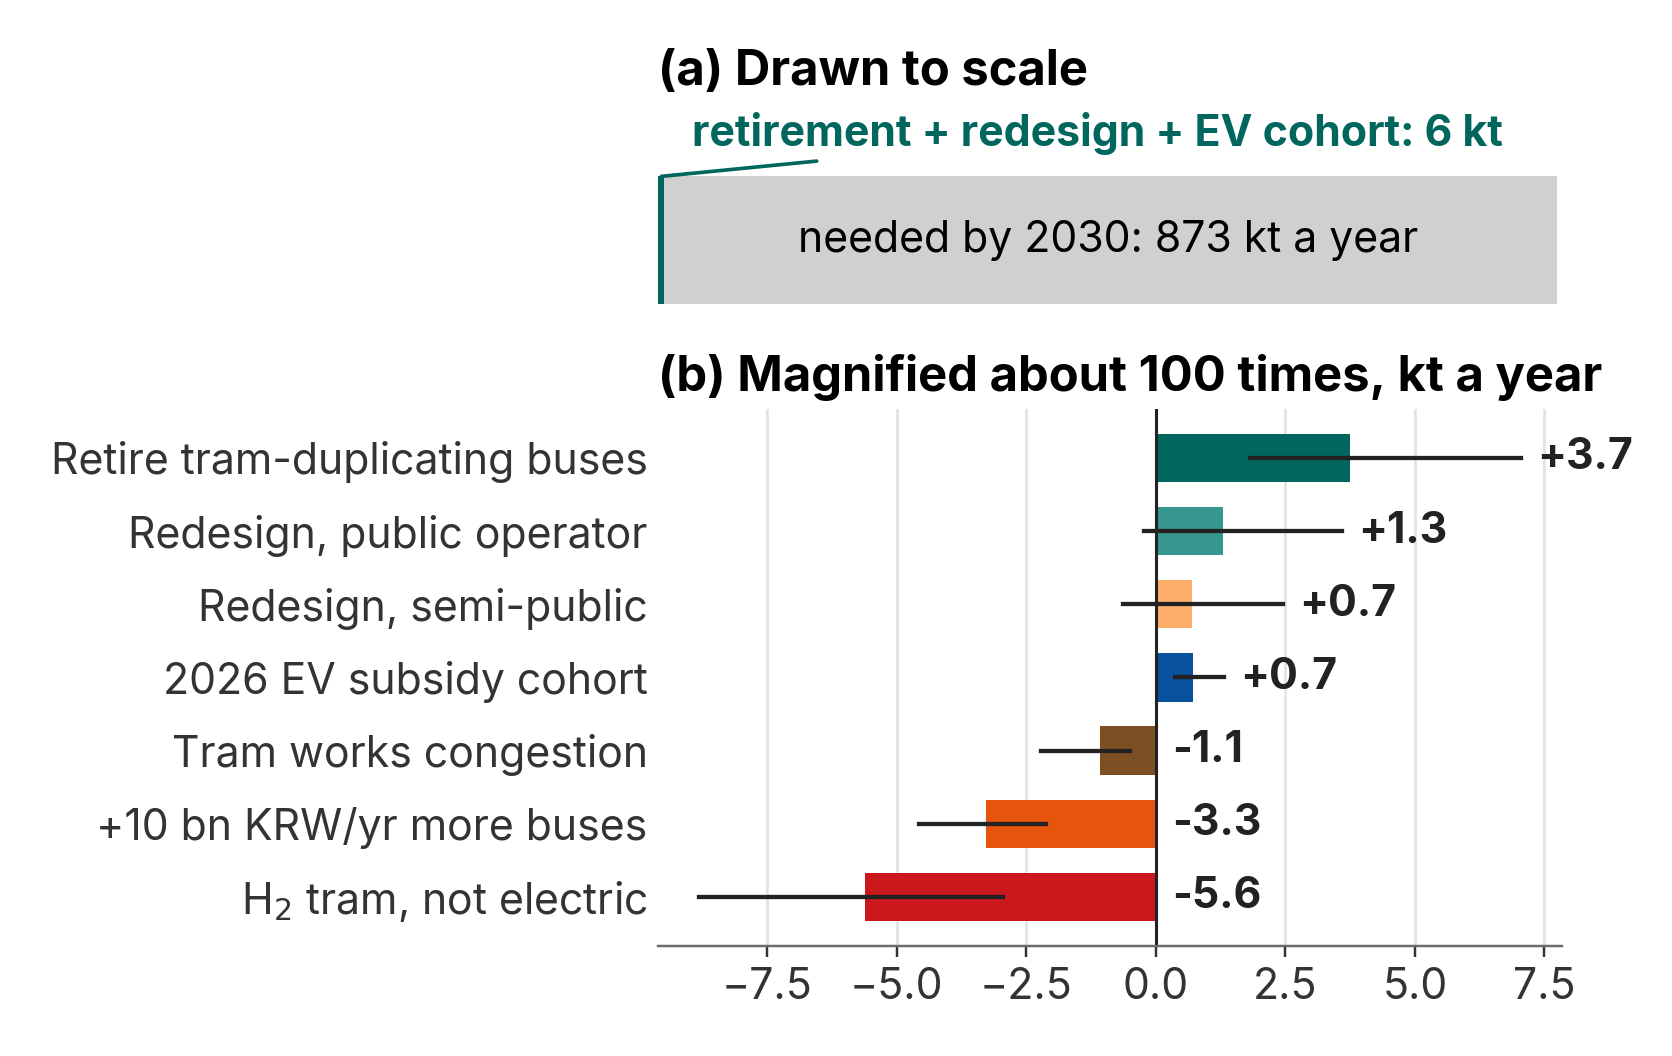
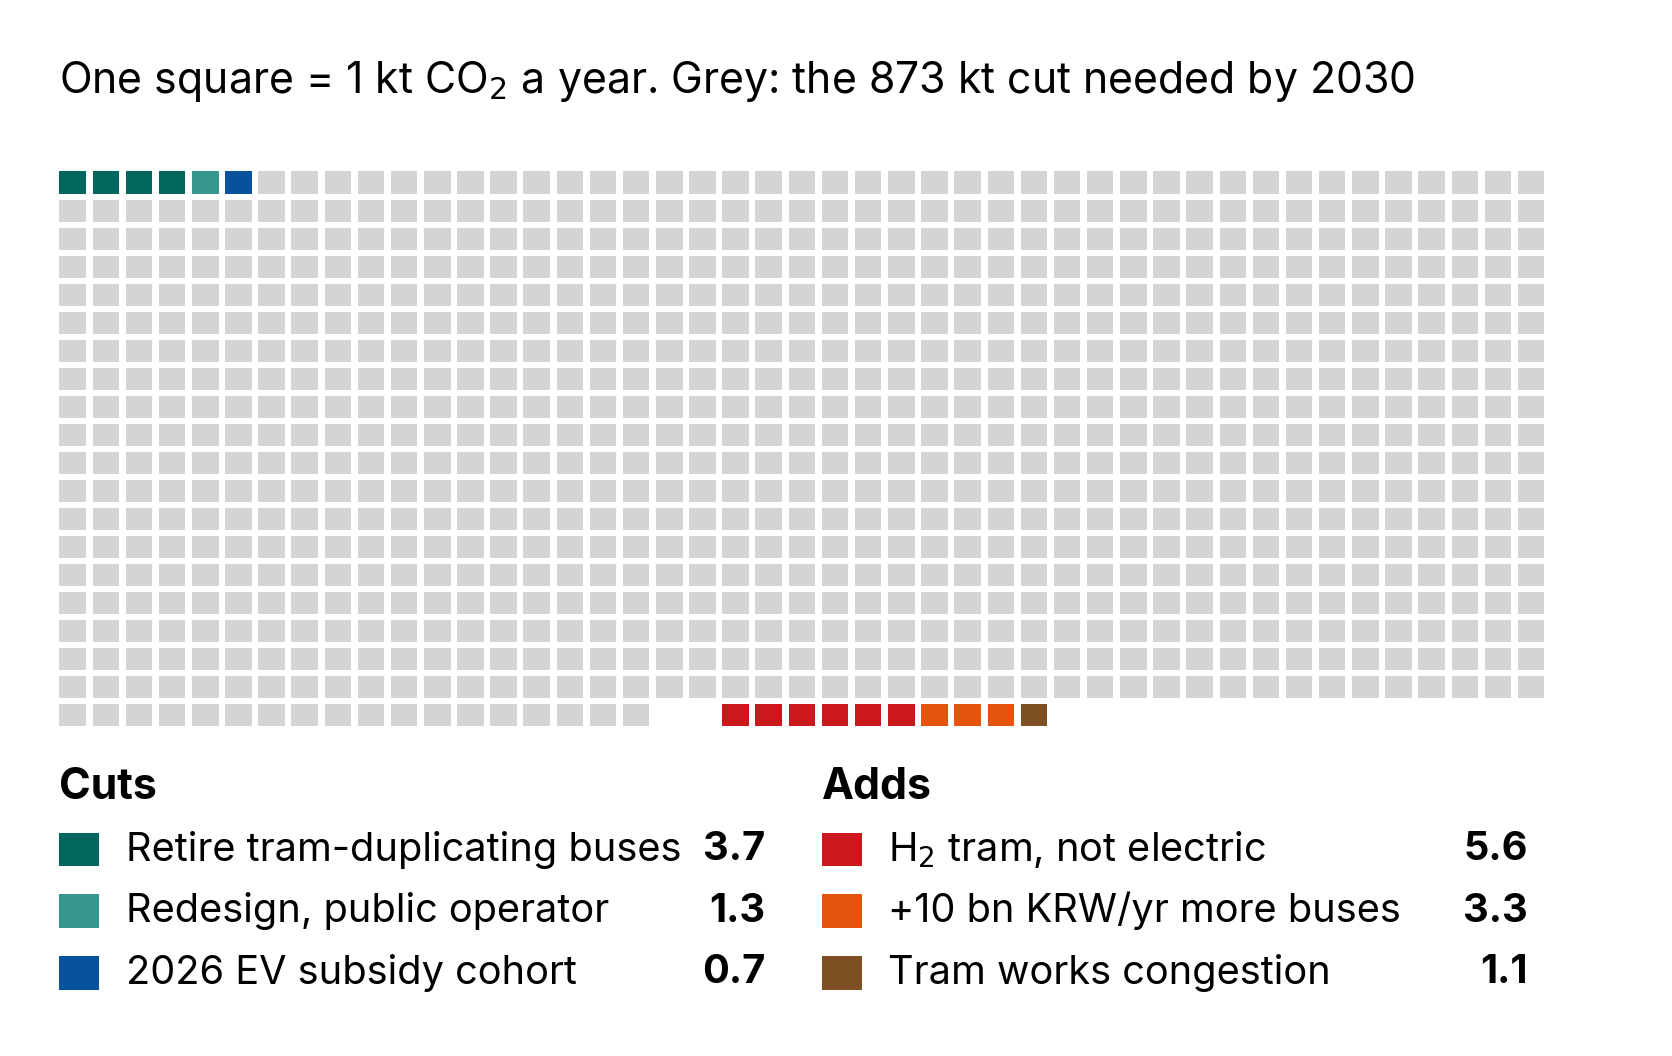
Scale figure as a waffle chart: one square per kt

diff --git a/figures.py b/figures.py
@@ -430,34 +430,48 @@ def fig_a2(mc):
 
 
 def fig_h2(mc):
-    """Scale: the needed cut drawn to scale (a), then the policies magnified (b)."""
+    """Scale as a waffle: one square = 1 kt CO2 a year. Grey squares are the cut
+    Daejeon needs by 2030; coloured squares are what each policy cuts or adds."""
     d = pd.read_csv("data_context.csv").set_index("item")["value"]
     need = d["transport_ghg_2018"] - d["transport_ghg_2030_target"]
-    cuts = (mc["gap_pct_T2_retire"] + mc["gap_pct_R_D"] + mc["gap_pct_EV_2026_cohort"]).median() * need / 100
-    rows = [("Retire tram-duplicating buses", "gap_pct_T2_retire", K["T2"]),
-            ("Redesign, public operator", "gap_pct_R_D", K["R_D"]),
-            ("Redesign, semi-public", "gap_pct_R_C", K["R_C"]),
-            ("2026 EV subsidy cohort", "gap_pct_EV_2026_cohort", K["A_all"]),
-            ("Tram works congestion", "gap_pct_W", K["W"]),
-            ("+10 bn KRW/yr more buses", "gap_pct_C_10bn", K["C"]),
-            ("H$_2$ tram, not electric", "gap_pct_H2_vs_electric_tram", K["H2_mix"])]
-    mk = mc.copy()
-    for _, col, _c in rows:
-        mk[col] = mc[col] * need / 100
-    fig, (ax1, ax2) = plt.subplots(2, 1, figsize=SLOT, gridspec_kw={"height_ratios": [1.0, 4.2]})
-    ax1.barh(0, need, color="#d0d0d0", height=0.6)
-    ax1.barh(0, cuts, color=K["T2"], height=0.6)
-    ax1.text(need / 2, 0, f"needed by 2030: {need:,.0f} kt a year", ha="center", va="center", fontsize=FS - 1)
-    ax1.annotate(f"retirement + redesign + EV cohort: {cuts:.0f} kt", (cuts / 2, 0.3), xytext=(10, 7), textcoords="offset points",
-                 fontsize=FS - 1, fontweight="bold", color=K["T2"], ha="left", va="bottom",
-                 arrowprops=dict(arrowstyle="-", color=K["T2"], lw=1.2, shrinkA=0, shrinkB=0))
-    ax1.set_title("(a) Drawn to scale", pad=30)
-    ax1.set_xlim(0, need * 1.005)
-    ax1.set_ylim(-0.3, 0.3)
-    ax1.axis("off")
-    _hbars(ax2, rows, mk, fmt=lambda v: f"{v:+.1f}")
-    ax2.axvline(0, color="#222222", lw=1)
-    ax2.set_title("(b) Magnified about 100 times, kt a year")
+    kt = lambda col: abs(mc[col].median()) * need / 100
+    cuts = [("Retire tram-duplicating buses", kt("gap_pct_T2_retire"), K["T2"]),
+            ("Redesign, public operator", kt("gap_pct_R_D"), K["R_D"]),
+            ("2026 EV subsidy cohort", kt("gap_pct_EV_2026_cohort"), K["A_all"])]
+    adds = [("H$_2$ tram, not electric", kt("gap_pct_H2_vs_electric_tram"), K["H2_mix"]),
+            ("+10 bn KRW/yr more buses", kt("gap_pct_C_10bn"), K["C"]),
+            ("Tram works congestion", kt("gap_pct_W"), K["W"])]
+    n, cols = int(round(need)), 45
+    colours = []
+    for _, v, c in cuts:
+        colours += [c] * max(1, int(round(v)))
+    colours += ["#d4d4d4"] * (n - len(colours))
+    extra = []
+    for _, v, c in adds:
+        extra += [c] * max(1, int(round(v)))
+    fig, ax = plt.subplots(figsize=SLOT)
+    s = 0.8
+    for k, c in enumerate(colours):
+        ax.add_patch(plt.Rectangle((k % cols, -(k // cols)), s, s, color=c, lw=0))
+    k0 = len(colours) + 2
+    for j, c in enumerate(extra):
+        k = k0 + j
+        ax.add_patch(plt.Rectangle((k % cols, -(k // cols)), s, s, color=c, lw=0))
+    rows = (k0 + len(extra) - 1) // cols + 1
+    ax.set_xlim(-0.3, cols)
+    top = 3.6
+    ax.text(0, top - 0.4, f"One square = 1 kt CO$_2$ a year. Grey: the {n} kt cut needed by 2030",
+            fontsize=FS - 1, va="bottom")
+    y0 = -rows - 1.2
+    for x0, head, items in ((0, "Cuts", cuts), (23, "Adds", adds)):
+        ax.text(x0, y0, head, fontsize=FS - 1, fontweight="bold", va="center")
+        for i, (label, v, c) in enumerate(items):
+            yy = y0 - 2.2 * (i + 1)
+            ax.add_patch(plt.Rectangle((x0, yy - 0.6), 1.2, 1.2, color=c, lw=0))
+            ax.text(x0 + 2, yy, f"{label}  ", fontsize=FS - 2, va="center")
+            ax.text(x0 + 21.3, yy, f"{v:.1f}", fontsize=FS - 2, fontweight="bold", va="center", ha="right")
+    ax.set_ylim(y0 - 2.2 * 3 - 1.2, top + 1.2)
+    ax.axis("off")
     _save(fig, "h2_scale_vs_target_short")
 
 
